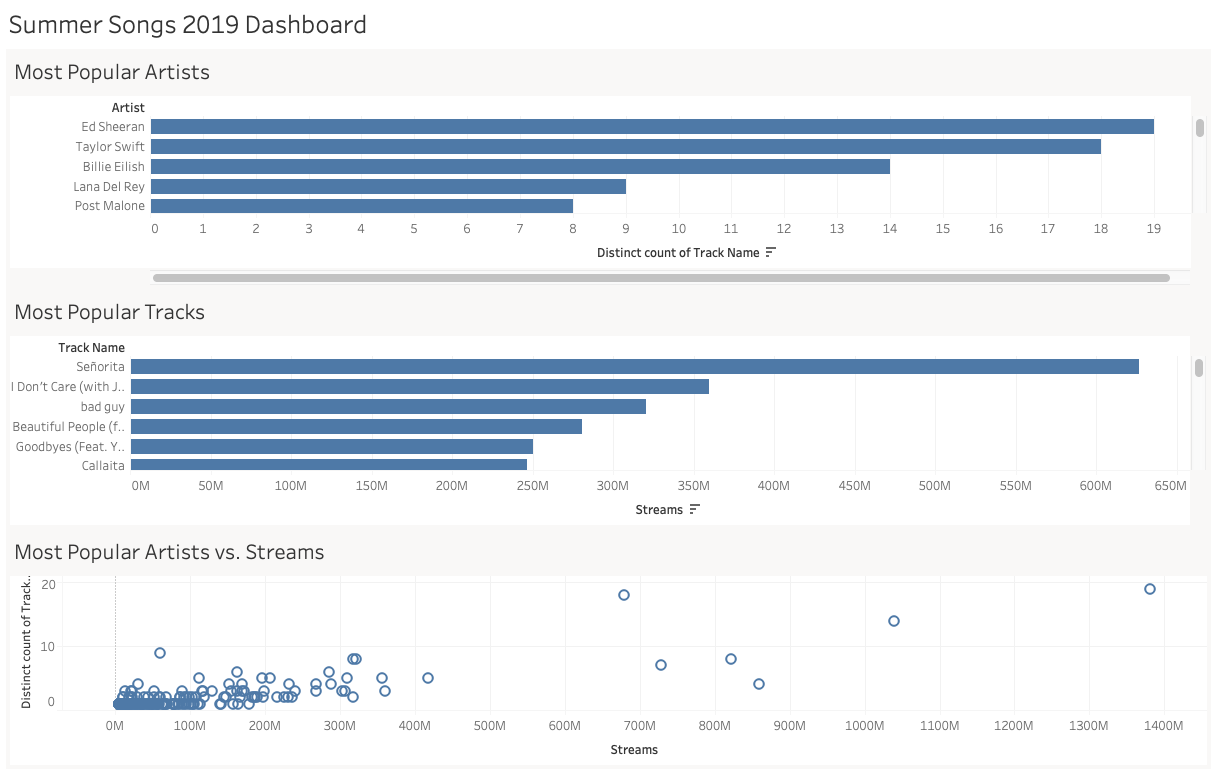
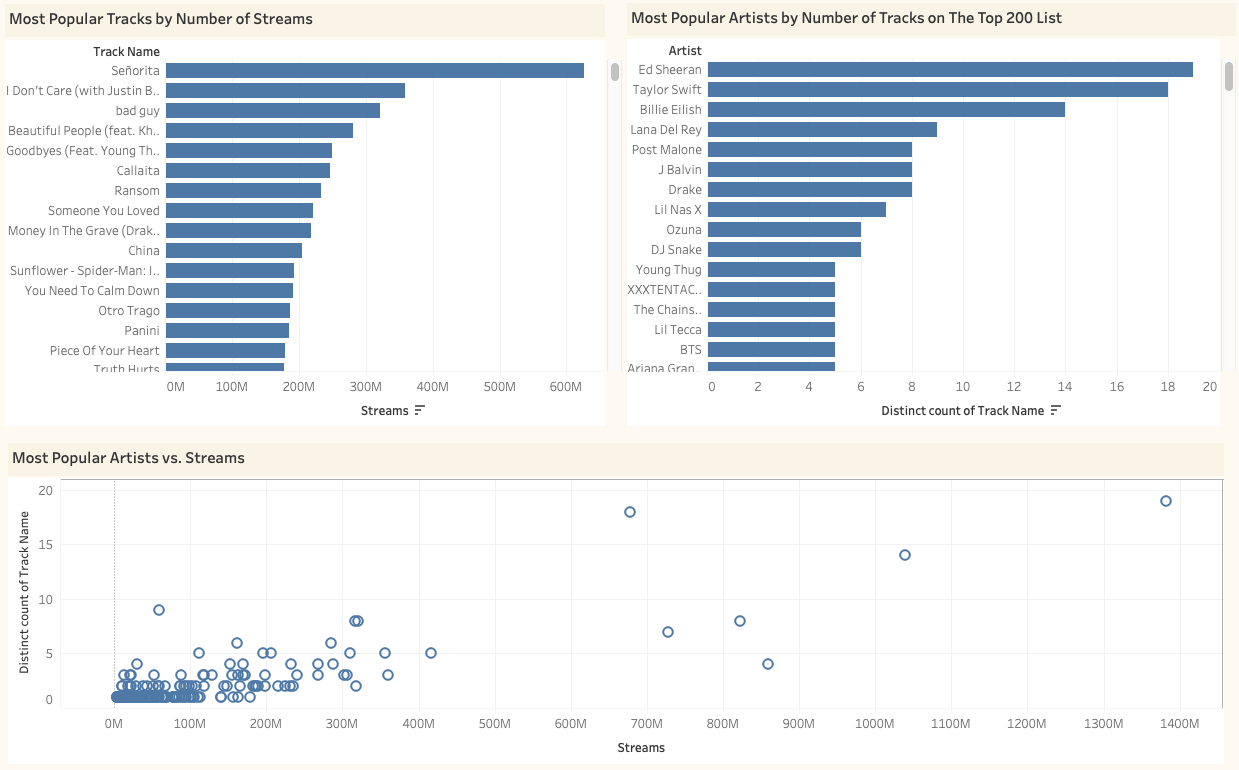
upgrading post

diff --git a/_posts/2019-09-06-spotify-top-200.md b/_posts/2019-09-06-spotify-top-200.md
@@ -67,7 +67,9 @@ Now let's look at the popularity of the tracks. Add a **New Worksheet**.
 
 ## Dashboard
 1. Add a **New Dashboard** and drag your *Sheets* on to the dashboard.
-2. Organize it the way that you like it. I organized mine in thirds from top to bottom.
+2. Organize it the way that you like it. I organized mine by Click on the **Layout** tab next to **Dashboard**, right clicking each chart in *Item Hierarchy* and separating them.
+3. Click each bar chart and select the funnel **Use as Filter** so that when you click an artist or track, the rest of the charts will pull information related to it. For example, if you click Taylor Swift in "Most Popular Artists", all of her tracks are selected on the "Most Popular Tracks" chart and number of streams show up on our scatter plot.
+4. Customize the dashboard's color, borders, shading, and title sizes by going to *Format* at the top of the screen and select Dashboard.
 
 ## Final Output
 ![]({{ site.url }}{{ site.baseurl }}/images/spotify-top-200/dashboard.png)
@@ -76,7 +78,7 @@ Now let's look at the popularity of the tracks. Add a **New Worksheet**.
 You can interact with [this dashboard](https://public.tableau.com/profile/christopher.chung1603#!/vizhome/VisualizedSpotifyGlobalsTop200SummerSongs2019withTableau/SummerSongs2019Dashboard) on Tableau Public.
 
 ## Conclusion
-This was a fun project that let me see what the world is listening to. It's cool to see that some artists dominate the rest like Ed Sheeran and Shawn Mendes. I also thought it was interesting that most tracks doesn't mean that they have the most listening time.
+This was a fun project that let me see what the world is listening to. It's cool to see that some artists dominate the rest like Ed Sheeran and Shawn Mendes. I also thought it was interesting that most tracks doesn't mean that they have the most listening time. I went back the next day and decided that my original layout was not very clear. I had the layout in thirds like a long hamburger but I felt that the information was hard to access. After messing around looking at other people's examples, I saw that I could manually rearrange the charts and format the colors.
 
 ## Next Steps
 In the next project, I will use the author's dataset to create a map & streaming activity dashboard to take a closer look at what songs each country is listening to!
